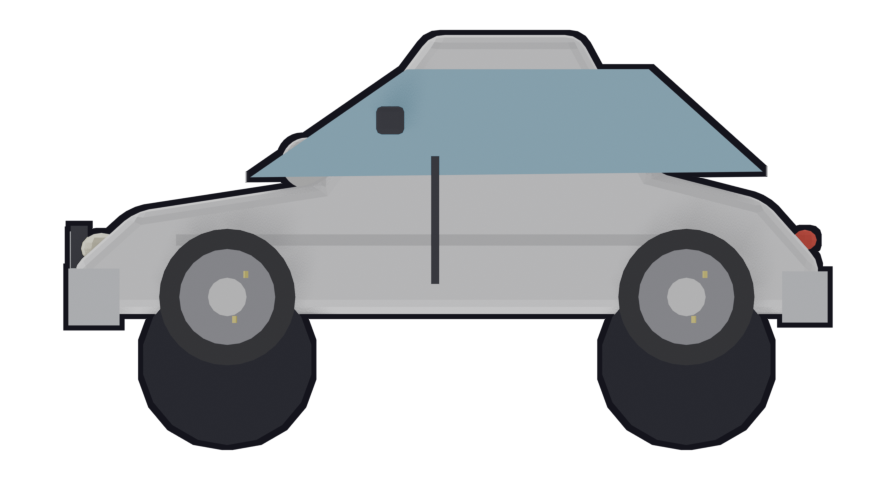
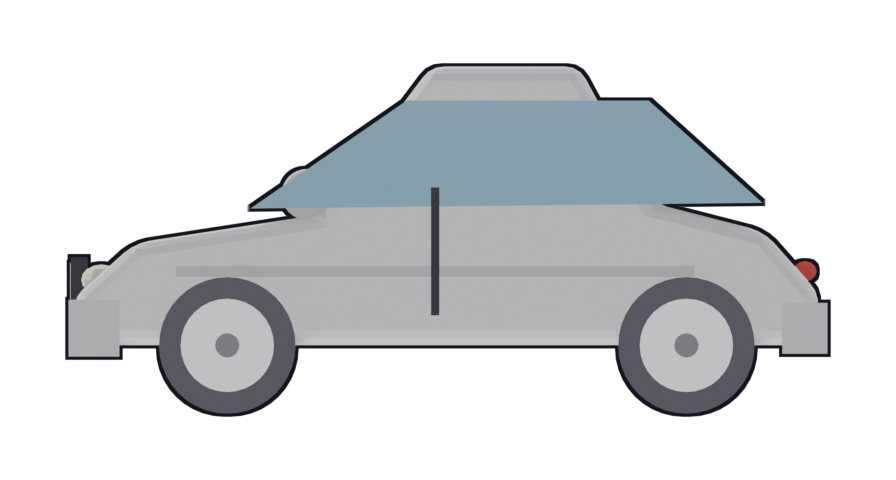
Fix: clean baked car wheels without ghost rings
Remove fake arch cylinders and transparent wheel wells (png_outline
was doubling rings). Side-view cars use thin unlit wheel discs nested
on a solid belly; drop floating mirror/spoiler flecks.

Changed region(s): [[0.0625, 0.0625, 0.9375, 0.9375]]

diff --git a/test/game/car_screenshot_test.dart b/test/game/car_screenshot_test.dart
@@ -1,0 +1,62 @@
+import 'dart:io';
+import 'dart:math';
+import 'dart:ui';
+
+import 'package:flame/components.dart';
+import 'package:flame_test/flame_test.dart';
+import 'package:flutter_test/flutter_test.dart';
+import 'package:poopy_bird/components/car.dart';
+import 'package:poopy_bird/game/poopy_bird_game.dart';
+import 'package:poopy_bird/systems/car_type.dart';
+
+/// Visual QA dump — parks car variants and writes an in-game PNG.
+void main() {
+  TestWidgetsFlutterBinding.ensureInitialized();
+
+  testWithGame<PoopyBirdGame>(
+    'dump in-game car lineup screenshot',
+    () => PoopyBirdGame(random: Random(7)),
+    (game) async {
+      for (final c in game.world.children.whereType<Car>().toList()) {
+        c.removeFromParent();
+      }
+      await game.ready();
+
+      const types = [
+        CarType.sedan,
+        CarType.taxi,
+        CarType.sportsCar,
+        CarType.police,
+        CarType.bus,
+      ];
+      var x = 36.0;
+      for (var i = 0; i < types.length; i++) {
+        final lane = i.isEven ? 0 : 1;
+        final t = types[i];
+        await game.world.add(Car(
+          type: t,
+          lane: lane,
+          speed: 0,
+          position: Vector2(x, game.laneBaseline(lane)),
+        ));
+        x += t.width + 24;
+      }
+      await game.ready();
+      for (var i = 0; i < 5; i++) {
+        game.update(1 / 60);
+        await game.ready();
+      }
+
+      final size = game.size;
+      final recorder = PictureRecorder();
+      game.render(Canvas(recorder));
+      final picture = recorder.endRecording();
+      final image = await picture.toImage(size.x.toInt(), size.y.toInt());
+      final bytes = await image.toByteData(format: ImageByteFormat.png);
+      final out = File('.artifacts/ingame_cars.png')
+        ..createSync(recursive: true);
+      await out.writeAsBytes(bytes!.buffer.asUint8List());
+      expect(out.existsSync(), isTrue);
+    },
+  );
+}

diff --git a/tools/blender/models.py b/tools/blender/models.py
@@ -12,6 +12,7 @@ from common import (
     apply_loc_rot_scale,
     bevel,
     extrude_profile,
+    flat_material,
     join_objects,
     mesh_cone,
     mesh_cube,
@@ -25,43 +26,40 @@ from common import (
 
 
 def _wheel(name: str, loc: tuple[float, float, float], radius: float = 0.22):
-    """Side-view wheel for +Y camera: circular face with a clean hub + spokes."""
+    """Flat side-view wheel — thin unlit discs (no toon shade crescents)."""
     x, y, z = loc
-    rubber = toon_material(f"{name}_rubber", (0.09, 0.09, 0.1, 1.0), steps=2)
-    hub = toon_material(f"{name}_hub", (0.88, 0.88, 0.9, 1.0), steps=2)
-    rim = toon_material(f"{name}_rim", (0.42, 0.42, 0.46, 1.0), steps=2)
-    spoke = toon_material(f"{name}_spoke", (0.95, 0.84, 0.2, 1.0), steps=2)
-    # Axis along Y so a +Y side camera sees a circle.
+    rubber = flat_material(f"{name}_rubber", (0.1, 0.1, 0.12, 1.0))
+    face = flat_material(f"{name}_face", (0.86, 0.88, 0.9, 1.0))
+    hub = flat_material(f"{name}_hub", (0.2, 0.2, 0.22, 1.0))
     rot = (math.radians(90), 0, 0)
-    parts = [
+    return [
         mesh_cylinder(
-            name, radius=radius, depth=0.2, location=loc, material=rubber,
-            vertices=32, rotation=rot,
+            name, radius=radius, depth=0.03, location=(x, y, z), material=rubber,
+            vertices=40, rotation=rot,
         ),
         mesh_cylinder(
-            f"{name}_rim", radius=radius * 0.7, depth=0.22, location=loc,
-            material=rim, vertices=24, rotation=rot,
+            f"{name}_face", radius=radius * 0.68, depth=0.04,
+            location=(x, y + 0.01, z), material=face, vertices=32, rotation=rot,
         ),
         mesh_cylinder(
-            f"{name}_hub", radius=radius * 0.28, depth=0.24, location=loc,
-            material=hub, vertices=16, rotation=rot,
+            f"{name}_hub", radius=radius * 0.18, depth=0.05,
+            location=(x, y + 0.02, z), material=hub, vertices=16, rotation=rot,
         ),
     ]
-    # Three clean spokes — readable, not flecky.
-    for i in range(3):
-        a = i * (math.pi * 2 / 3)
-        sx = x + math.cos(a) * radius * 0.38
-        sz = z + math.sin(a) * radius * 0.38
-        sp = mesh_cube(
-            f"{name}_sp{i}",
-            (radius * 0.55, 0.04, radius * 0.1),
-            (sx, y + 0.05, sz),
-            spoke,
-        )
-        sp.rotation_euler = Euler((0, 0, a))
-        apply_loc_rot_scale(sp)
-        parts.append(sp)
-    return parts
+
+
+def _wheel_arch(
+    cx: float, *, radius: float = 0.28, belly: float = 0.18
+) -> list[tuple[float, float]]:
+    """Bottom-edge points that arch UP over a wheel (rear→front, +X)."""
+    r = radius
+    return [
+        (cx - r * 1.2, belly),
+        (cx - r * 0.85, belly + r * 0.7),
+        (cx, belly + r * 1.05),
+        (cx + r * 0.85, belly + r * 0.7),
+        (cx + r * 1.2, belly),
+    ]
 
 
 def _headlight(name: str, loc: tuple[float, float, float], lit: bool = True):
@@ -84,10 +82,16 @@ def _taillight(name: str, loc: tuple[float, float, float]):
 
 
 def _sedan_profile(length: float = 2.6, roof: float = 1.15) -> list[tuple[float, float]]:
-    """Clockwise XZ silhouette of a cartoon sedan (nose at +X)."""
+    """Clockwise XZ silhouette of a cartoon sedan (nose at +X).
+
+    Flat belly on purpose: transparent wheel-well holes get a second ring from
+    ``png_outline``, which reads as ghost tires. Wheels sit in front of the
+    body instead.
+    """
     L = length * 0.5
+    belly = 0.22
     return [
-        (L * 0.98, 0.22),
+        (L * 0.98, belly),
         (L * 1.02, 0.38),
         (L * 0.85, 0.58),
         (L * 0.35, 0.68),
@@ -96,38 +100,40 @@ def _sedan_profile(length: float = 2.6, roof: float = 1.15) -> list[tuple[float,
         (-L * 0.55, 0.72),
         (-L * 0.85, 0.62),
         (-L * 1.0, 0.4),
-        (-L * 0.98, 0.22),
-        (-L * 0.55, 0.22),
-        (L * 0.55, 0.22),
+        (-L * 0.98, belly),
+        (L * 0.55, belly),
     ]
 
 
 def _sports_profile(length: float = 2.7) -> list[tuple[float, float]]:
     L = length * 0.5
+    belly = 0.2
     return [
-        (L * 1.0, 0.2), (L * 1.05, 0.32), (L * 0.7, 0.42),
+        (L * 1.0, belly), (L * 1.05, 0.32), (L * 0.7, 0.42),
         (L * 0.15, 0.48), (-L * 0.05, 0.78), (-L * 0.45, 0.78),
-        (-L * 0.7, 0.5), (-L * 1.0, 0.38), (-L * 0.98, 0.2),
-        (L * 0.5, 0.2),
+        (-L * 0.7, 0.5), (-L * 1.0, 0.38), (-L * 0.98, belly),
+        (L * 0.5, belly),
     ]
 
 
 def _bus_profile(length: float = 3.4) -> list[tuple[float, float]]:
     L = length * 0.5
+    belly = 0.22
     return [
-        (L * 0.95, 0.22), (L * 1.0, 0.55), (L * 0.9, 1.55),
-        (-L * 0.9, 1.55), (-L * 1.0, 0.55), (-L * 0.95, 0.22),
-        (L * 0.5, 0.22),
+        (L * 0.95, belly), (L * 1.0, 0.55), (L * 0.9, 1.55),
+        (-L * 0.9, 1.55), (-L * 1.0, 0.55), (-L * 0.95, belly),
+        (L * 0.5, belly),
     ]
 
 
 def _limo_profile(length: float = 4.0) -> list[tuple[float, float]]:
     L = length * 0.5
+    belly = 0.22
     return [
-        (L * 0.98, 0.22), (L * 1.02, 0.38), (L * 0.8, 0.55),
+        (L * 0.98, belly), (L * 1.02, 0.38), (L * 0.8, 0.55),
         (L * 0.55, 0.62), (L * 0.35, 1.05), (-L * 0.55, 1.05),
-        (-L * 0.75, 0.62), (-L * 0.98, 0.4), (-L * 0.96, 0.22),
-        (L * 0.5, 0.22),
+        (-L * 0.75, 0.62), (-L * 0.98, 0.4), (-L * 0.96, belly),
+        (L * 0.5, belly),
     ]
 
 
@@ -156,13 +162,14 @@ def build_car(
     elif kind == "convertible":
         # Low roof — windscreen only.
         L = 1.3
+        belly = 0.22
+        length = 2.6
         profile = [
-            (L * 0.98, 0.22), (L * 1.02, 0.38), (L * 0.75, 0.55),
+            (L * 0.98, belly), (L * 1.02, 0.38), (L * 0.75, 0.55),
             (L * 0.2, 0.62), (L * 0.05, 0.85), (-L * 0.15, 0.7),
             (-L * 0.5, 0.58), (-L * 0.95, 0.55), (-L * 1.0, 0.35),
-            (-L * 0.98, 0.22), (L * 0.5, 0.22),
+            (-L * 0.98, belly), (L * 0.5, belly),
         ]
-        length = 2.6
     else:
         roof = 1.2 if kind != "sunroof" else 1.22
         profile = _sedan_profile(roof=roof)
@@ -232,30 +239,10 @@ def build_car(
     )
     parts.append(mesh_cube(f"{kind}_door", (0.03, 1.18, 0.45), (0.05, 0, 0.55), dark))
 
-    mirror = mesh_cube(f"{kind}_mirror", (0.1, 0.2, 0.1), (length * 0.08, 0.6, 0.9), dark)
-    bevel(mirror, width=0.02, segments=2)
-    parts.append(mirror)
+    # Side-view plates: skip mirrors — they read as floating flecks after outline.
 
-    # Wheel arches so the body doesn't read as a floating slab.
-    arch_mat = toon_material(f"{kind}_arch", (0.06, 0.06, 0.08, 1.0), steps=2)
-    arch_xs = (-length * 0.32, length * 0.3)
-    if kind == "limo":
-        arch_xs = (-length * 0.38, -0.25, 0.4, length * 0.35)
-    elif kind == "bus":
-        arch_xs = (-length * 0.35, 0.0, length * 0.32)
-    for x in arch_xs:
-        arch = mesh_cylinder(
-            f"{kind}_arch_{x:.2f}", 0.30, 1.22, (x, 0, 0.06), arch_mat,
-            vertices=18, rotation=(math.radians(90), 0, 0),
-        )
-        parts.append(arch)
-
-    if kind == "sports":
-        spoiler = mesh_cube(
-            f"{kind}_spoiler", (0.12, 1.1, 0.08), (-length * 0.42, 0, 0.85), body_mat
-        )
-        parts.append(spoiler)
-    elif kind == "taxi":
+    # Sports spoiler skipped in side-view plates — thin wings become floating flecks.
+    if kind == "taxi":
         sign = mesh_cube(
             f"{kind}_sign", (0.42, 0.3, 0.22), (0.0, 0, 1.25),
             toon_material(f"{kind}_sign", (0.12, 0.12, 0.12, 1.0), steps=2),
@@ -305,11 +292,14 @@ def build_car(
             xs = (-length * 0.38, -0.25, 0.4, length * 0.35)
         elif kind == "bus":
             xs = (-length * 0.35, 0.0, length * 0.32)
-        # Only the camera-facing side (+Y). Far-side wheels read as a second
-        # ghost tire under each hub in orthographic side view.
+        # Only camera-facing (+Y). Center on the belly so half the tire hangs
+        # below the chassis (classic side-view) without cutting transparent wells.
+        wheel_r = 0.22 if kind == "sports" else 0.24
+        belly_z = 0.22 if kind != "sports" else 0.2
         for x in xs:
-            # Center slightly into the belly so tires nest under the chassis.
-            parts.extend(_wheel(f"{kind}_w_{x:.2f}", (x, 0.58, 0.28), 0.24))
+            parts.extend(
+                _wheel(f"{kind}_w_{x:.2f}", (x, 0.62, belly_z), wheel_r)
+            )
 
     return join_objects(parts, f"car_{kind}")
 

diff --git a/tools/blender/common.py b/tools/blender/common.py
@@ -143,6 +143,24 @@ def toon_material(
     return mat
 
 
+def flat_material(
+    name: str,
+    color: tuple[float, float, float, float],
+) -> bpy.types.Material:
+    """Unlit solid color — no toon bands (use for side-view wheels)."""
+    mat = bpy.data.materials.new(name)
+    mat.use_nodes = True
+    nodes = mat.node_tree.nodes
+    links = mat.node_tree.links
+    nodes.clear()
+    output = nodes.new("ShaderNodeOutputMaterial")
+    emission = nodes.new("ShaderNodeEmission")
+    emission.inputs["Color"].default_value = color
+    emission.inputs["Strength"].default_value = 1.0
+    links.new(emission.outputs["Emission"], output.inputs["Surface"])
+    return mat
+
+
 def outline_material(name: str = "Outline") -> bpy.types.Material:
     mat = bpy.data.materials.new(name)
     mat.use_nodes = True

diff --git a/tools/blender/export_all.py b/tools/blender/export_all.py
@@ -116,7 +116,7 @@ def export_cars():
             # True side view so wheels stay circular (CAR 3/4 squashed them).
             axis="Y",
             resolution=(896, 480),
-            outline=5,
+            outline=3,
             padding=1.18,
         )
     shutil.copyfile(IMAGES_DIR / "car_sedan.png", IMAGES_DIR / "car-body.png")
